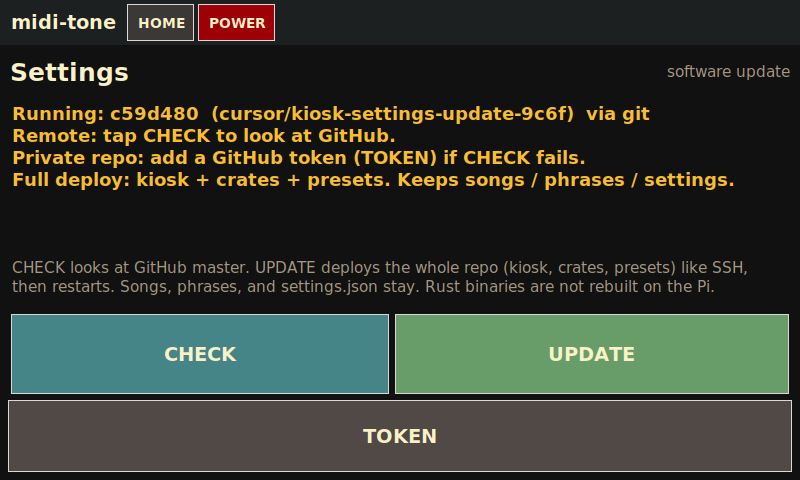
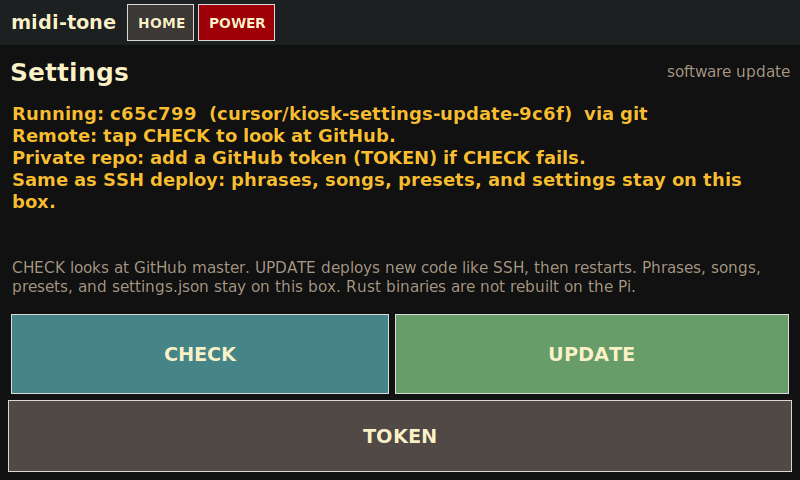
Keep phrases and other live data on SET→UPDATE, matching SSH deploy.
Overlay is copy-only and skips the same user trees deploy_pi.py never
uploads (phrases, songs, presets, settings). Tests now fail if a pad
file would be replaced.

Changed region(s): [[0.0, 0.5312, 0.9375, 0.625], [0.0, 0.3438, 0.9375, 0.4375], [0.1562, 0.2188, 0.8125, 0.25]]

diff --git a/tools/midi-tone/docs/index.html b/tools/midi-tone/docs/index.html
@@ -325,7 +325,7 @@
         <tr><th>UPDATE</th><td>If behind: confirm, deploy the whole repo (kiosk + crates + presets), restart kiosk and any midi-engine / jambox-engine units. Second tap is INSTALL NOW.</td></tr>
         <tr><th>TOKEN</th><td>Store a GitHub PAT on the box (private repo). Written to <code>.update-credentials</code>.</td></tr>
       </table>
-      <p class="note">Never overwrites <code>settings.json</code>, <code>songs/</code>, <code>phrases/</code>, <code>user-presets/</code>, <code>user-wavetables/</code>, or <code>presets/active.json</code>. Does not cargo-build on the Pi — new Rust binaries still come from SSH/cross-compile.</p>
+      <p class="note">Same as SSH deploy: never overwrites <code>settings.json</code>, <code>songs/</code>, <code>phrases/</code> (pad recordings), <code>user-presets/</code>, <code>user-wavetables/</code>, or <code>presets/active.json</code>. Does not cargo-build on the Pi — new Rust binaries still come from SSH/cross-compile.</p>
     </section>
 
     <section class="screen" id="voices">

diff --git a/tools/midi-tone/test_updater.py b/tools/midi-tone/test_updater.py
@@ -145,6 +145,8 @@ class OverlayTest(unittest.TestCase):
             (src / "settings.json").write_text('{"wipe": true}\n', encoding="utf-8")
             (src / "songs").mkdir()
             (src / "songs" / "demo.mid").write_bytes(b"MThd")
+            (src / "phrases").mkdir()
+            (src / "phrases" / "pad-01.json").write_text('{"wipe":true}\n', encoding="utf-8")
 
             dest.mkdir()
             (dest / "midi_tone.py").write_text("OLD_APP\n", encoding="utf-8")
@@ -152,7 +154,9 @@ class OverlayTest(unittest.TestCase):
             (dest / "songs").mkdir()
             (dest / "songs" / "take-001.mid").write_bytes(b"USER")
             (dest / "phrases").mkdir()
-            (dest / "phrases" / "pad-01.json").write_text("{}\n", encoding="utf-8")
+            (dest / "phrases" / "pad-01.json").write_text(
+                '{"name":"live-phrase"}\n', encoding="utf-8"
+            )
             (dest / "user-presets").mkdir()
             (dest / "user-presets" / "slot-01.json").write_text("{}\n", encoding="utf-8")
             (dest / ".venv").mkdir()
@@ -163,6 +167,7 @@ class OverlayTest(unittest.TestCase):
             self.assertIn("wavetables/saw.wav", written)
             self.assertNotIn("settings.json", written)
             self.assertNotIn("songs/demo.mid", written)
+            self.assertNotIn("phrases/pad-01.json", written)
 
             self.assertEqual((dest / "midi_tone.py").read_text(encoding="utf-8"), "NEW_APP\n")
             self.assertEqual(
@@ -171,7 +176,10 @@ class OverlayTest(unittest.TestCase):
             )
             self.assertEqual((dest / "songs" / "take-001.mid").read_bytes(), b"USER")
             self.assertFalse((dest / "songs" / "demo.mid").exists())
-            self.assertTrue((dest / "phrases" / "pad-01.json").is_file())
+            self.assertEqual(
+                (dest / "phrases" / "pad-01.json").read_text(encoding="utf-8"),
+                '{"name":"live-phrase"}\n',
+            )
             self.assertTrue((dest / "user-presets" / "slot-01.json").is_file())
             self.assertEqual((dest / ".venv" / "marker").read_text(encoding="utf-8"), "venv\n")
             self.assertTrue((dest / "wavetables" / "saw.wav").is_file())
@@ -189,6 +197,12 @@ class OverlayTest(unittest.TestCase):
             (src / "crates" / "midi-core" / "src" / "lib.rs").write_text("// new\n", encoding="utf-8")
             (src / "tools" / "midi-tone" / "midi_tone.py").write_text("NEW\n", encoding="utf-8")
             (src / "tools" / "midi-tone" / "settings.json").write_text('{"wipe":1}\n', encoding="utf-8")
+            (src / "tools" / "midi-tone" / "phrases").mkdir()
+            (src / "tools" / "midi-tone" / "phrases" / "pad-01.json").write_text(
+                '{"wipe":true}\n', encoding="utf-8"
+            )
+            (src / "tools" / "midi-tone" / "songs").mkdir()
+            (src / "tools" / "midi-tone" / "songs" / "demo.mid").write_bytes(b"WIPE")
             (src / "presets" / "example.json").write_text("{}\n", encoding="utf-8")
             (src / "presets" / "active.json").write_text('{"wipe":true}\n', encoding="utf-8")
             (src / "deploy" / "midi-engine.service").write_text("[Unit]\n", encoding="utf-8")
@@ -198,6 +212,12 @@ class OverlayTest(unittest.TestCase):
             (dest / "bin").mkdir()
             (dest / "tools" / "midi-tone" / "midi_tone.py").write_text("OLD\n", encoding="utf-8")
             (dest / "tools" / "midi-tone" / "settings.json").write_text('{"keep":1}\n', encoding="utf-8")
+            (dest / "tools" / "midi-tone" / "phrases").mkdir()
+            (dest / "tools" / "midi-tone" / "phrases" / "pad-01.json").write_text(
+                '{"name":"my-groove"}\n', encoding="utf-8"
+            )
+            (dest / "tools" / "midi-tone" / "songs").mkdir()
+            (dest / "tools" / "midi-tone" / "songs" / "take-001.mid").write_bytes(b"USER")
             (dest / "presets" / "active.json").write_text('{"live":true}\n', encoding="utf-8")
             (dest / "bin" / "midi-engine").write_bytes(b"OLDELF")
 
@@ -208,11 +228,22 @@ class OverlayTest(unittest.TestCase):
             self.assertIn("deploy/midi-engine.service", written)
             self.assertNotIn("presets/active.json", written)
             self.assertNotIn("tools/midi-tone/settings.json", written)
+            self.assertNotIn("tools/midi-tone/phrases/pad-01.json", written)
+            self.assertNotIn("tools/midi-tone/songs/demo.mid", written)
             self.assertEqual((dest / "tools" / "midi-tone" / "midi_tone.py").read_text(encoding="utf-8"), "NEW\n")
             self.assertEqual(
                 (dest / "tools" / "midi-tone" / "settings.json").read_text(encoding="utf-8"),
                 '{"keep":1}\n',
             )
+            self.assertEqual(
+                (dest / "tools" / "midi-tone" / "phrases" / "pad-01.json").read_text(encoding="utf-8"),
+                '{"name":"my-groove"}\n',
+            )
+            self.assertEqual(
+                (dest / "tools" / "midi-tone" / "songs" / "take-001.mid").read_bytes(),
+                b"USER",
+            )
+            self.assertFalse((dest / "tools" / "midi-tone" / "songs" / "demo.mid").exists())
             self.assertEqual(
                 (dest / "presets" / "active.json").read_text(encoding="utf-8"),
                 '{"live":true}\n',
@@ -239,10 +270,16 @@ class OverlayTest(unittest.TestCase):
             (repo / "tools" / "midi-tone" / "midi_tone.py").write_text("NEW\n", encoding="utf-8")
             (kiosk / "midi_tone.py").write_text("OLD\n", encoding="utf-8")
             (kiosk / "settings.json").write_text('{"keep":1}\n', encoding="utf-8")
+            (kiosk / "phrases").mkdir()
+            (kiosk / "phrases" / "pad-07.json").write_text('{"keep":"phrase"}\n', encoding="utf-8")
             notes: list[str] = []
             updater._sync_kiosk_from_repo(repo, kiosk, notes.append)
             self.assertEqual((kiosk / "midi_tone.py").read_text(encoding="utf-8"), "NEW\n")
             self.assertEqual((kiosk / "settings.json").read_text(encoding="utf-8"), '{"keep":1}\n')
+            self.assertEqual(
+                (kiosk / "phrases" / "pad-07.json").read_text(encoding="utf-8"),
+                '{"keep":"phrase"}\n',
+            )
             self.assertTrue(any("kiosk" in n.lower() for n in notes))
 
 
@@ -418,8 +455,8 @@ class StatusTextTest(unittest.TestCase):
     def test_format_status_mentions_user_data(self) -> None:
         text = updater.format_status_lines(None, pathlib.Path("/tmp/does-not-exist-midi-tone"))
         self.assertIn("Running:", text)
-        self.assertIn("songs", text)
-        self.assertIn("Full deploy", text)
+        self.assertIn("phrases", text)
+        self.assertIn("SSH deploy", text)
 
 
 if __name__ == "__main__":

diff --git a/tools/midi-tone/updater.py b/tools/midi-tone/updater.py
@@ -57,7 +57,8 @@ CHECK_TIMEOUT_SEC = 25
 DOWNLOAD_TIMEOUT_SEC = 180
 PIP_TIMEOUT_SEC = 300
 
-# Names / relative prefixes an overlay must never replace or delete.
+# User content deploy_pi.py never uploads. Overlay is copy-only (like scp) and
+# skips these paths so SET→UPDATE cannot wipe a live box.
 KEEP_KIOSK = frozenset(
     {
         "settings.json",
@@ -83,16 +84,7 @@ KEEP_REPO = frozenset(
         "bin",  # SSH-deployed midi-engine / jambox-engine binaries
         "takes",
         "presets/active.json",
-        "tools/midi-tone/settings.json",
-        "tools/midi-tone/songs",
-        "tools/midi-tone/phrases",
-        "tools/midi-tone/user-presets",
-        "tools/midi-tone/user-wavetables",
-        "tools/midi-tone/.venv",
-        "tools/midi-tone/.pi-credentials",
-        "tools/midi-tone/.update-credentials",
-        "tools/midi-tone/version.json",
-        "tools/midi-tone/__pycache__",
+        *(f"tools/midi-tone/{name}" for name in KEEP_KIOSK if name not in {".git", ".gitignore"}),
     }
 )
 
@@ -511,9 +503,10 @@ def overlay_tree(
 ) -> List[str]:
     """Copy files from ``src`` onto ``dest``, skipping keep prefixes.
 
-    ``keep`` is a set of relative paths (file or directory). ``songs`` skips
-    the whole songs tree; ``presets/active.json`` skips only that file.
-    Returns the relative paths that were written.
+    Copy-only, like ``deploy_pi.py`` sftp.put: never deletes destination
+    files. ``keep`` is a set of relative paths (file or directory).
+    ``phrases`` skips the whole phrase-pad tree; ``presets/active.json``
+    skips only that file.
     """
     if not src.is_dir():
         raise UpdateError(f"update tree missing: {src}")
@@ -885,7 +878,9 @@ def format_status_lines(check: Optional[UpdateCheck] = None, install: pathlib.Pa
         )
     if not has_token and (check is None or check.error):
         lines.append("Private repo: add a GitHub token (TOKEN) if CHECK fails.")
-    lines.append("Full deploy: kiosk + crates + presets. Keeps songs / phrases / settings.")
+    lines.append(
+        "Same as SSH deploy: phrases, songs, presets, and settings stay on this box."
+    )
     return "\n".join(lines)
 
 

diff --git a/tools/midi-tone/midi_tone.py b/tools/midi-tone/midi_tone.py
@@ -5375,9 +5375,9 @@ class MidiToneApp:
         tk.Label(
             body,
             text=(
-                "CHECK looks at GitHub master. UPDATE deploys the whole repo "
-                "(kiosk, crates, presets) like SSH, then restarts. "
-                "Songs, phrases, and settings.json stay. Rust binaries are not rebuilt on the Pi."
+                "CHECK looks at GitHub master. UPDATE deploys new code like SSH, "
+                "then restarts. Phrases, songs, presets, and settings.json stay "
+                "on this box. Rust binaries are not rebuilt on the Pi."
             ),
             font=("DejaVu Sans", 11),
             fg="#a89984",
@@ -5480,8 +5480,9 @@ class MidiToneApp:
                 return
             self._update_confirming = True
             self._settings_status_var.set(
-                "This deploys the whole repo from GitHub, then restarts.\n"
-                "Songs, presets, phrases, and settings.json stay.\n"
+                "This deploys new code from GitHub, then restarts.\n"
+                "Phrases, songs, presets, and settings.json are not touched "
+                "(same as SSH deploy).\n"
                 "Tap INSTALL NOW to continue, or CANCEL."
             )
             self._paint_settings_buttons()
@@ -7679,8 +7680,9 @@ class MidiToneApp:
                     if extra == "confirm" and result is not None and result.available:
                         self._update_confirming = True
                         self._settings_status_var.set(
-                            "This deploys the whole repo from GitHub, then restarts.\n"
-                            "Songs, presets, phrases, and settings.json stay.\n"
+                            "This deploys new code from GitHub, then restarts.\n"
+                            "Phrases, songs, presets, and settings.json are not touched "
+                            "(same as SSH deploy).\n"
                             "Tap INSTALL NOW to continue, or CANCEL."
                         )
                         self._paint_settings_buttons()
